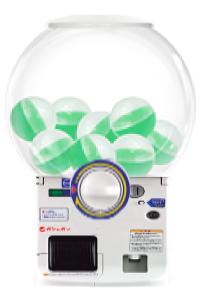
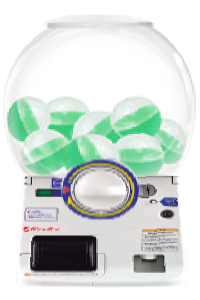
use new machine

diff --git a/site/index.html b/site/index.html
@@ -10,7 +10,7 @@
     <body>
         <div id="tokens"></div>
         <div id="wrapper">
-            <img id="machine" src="./assets/machine-dr.png" />
+            <img id="machine" src="./assets/machine-sh.png" />
             <img id="ball" src="./assets/ball.png" />
             <video id="explosion" autoplay muted loop playsinline onloadedmetadata="this.playbackRate = 2">
                 <source src="./assets/explosion.webm" type="video/webm">
